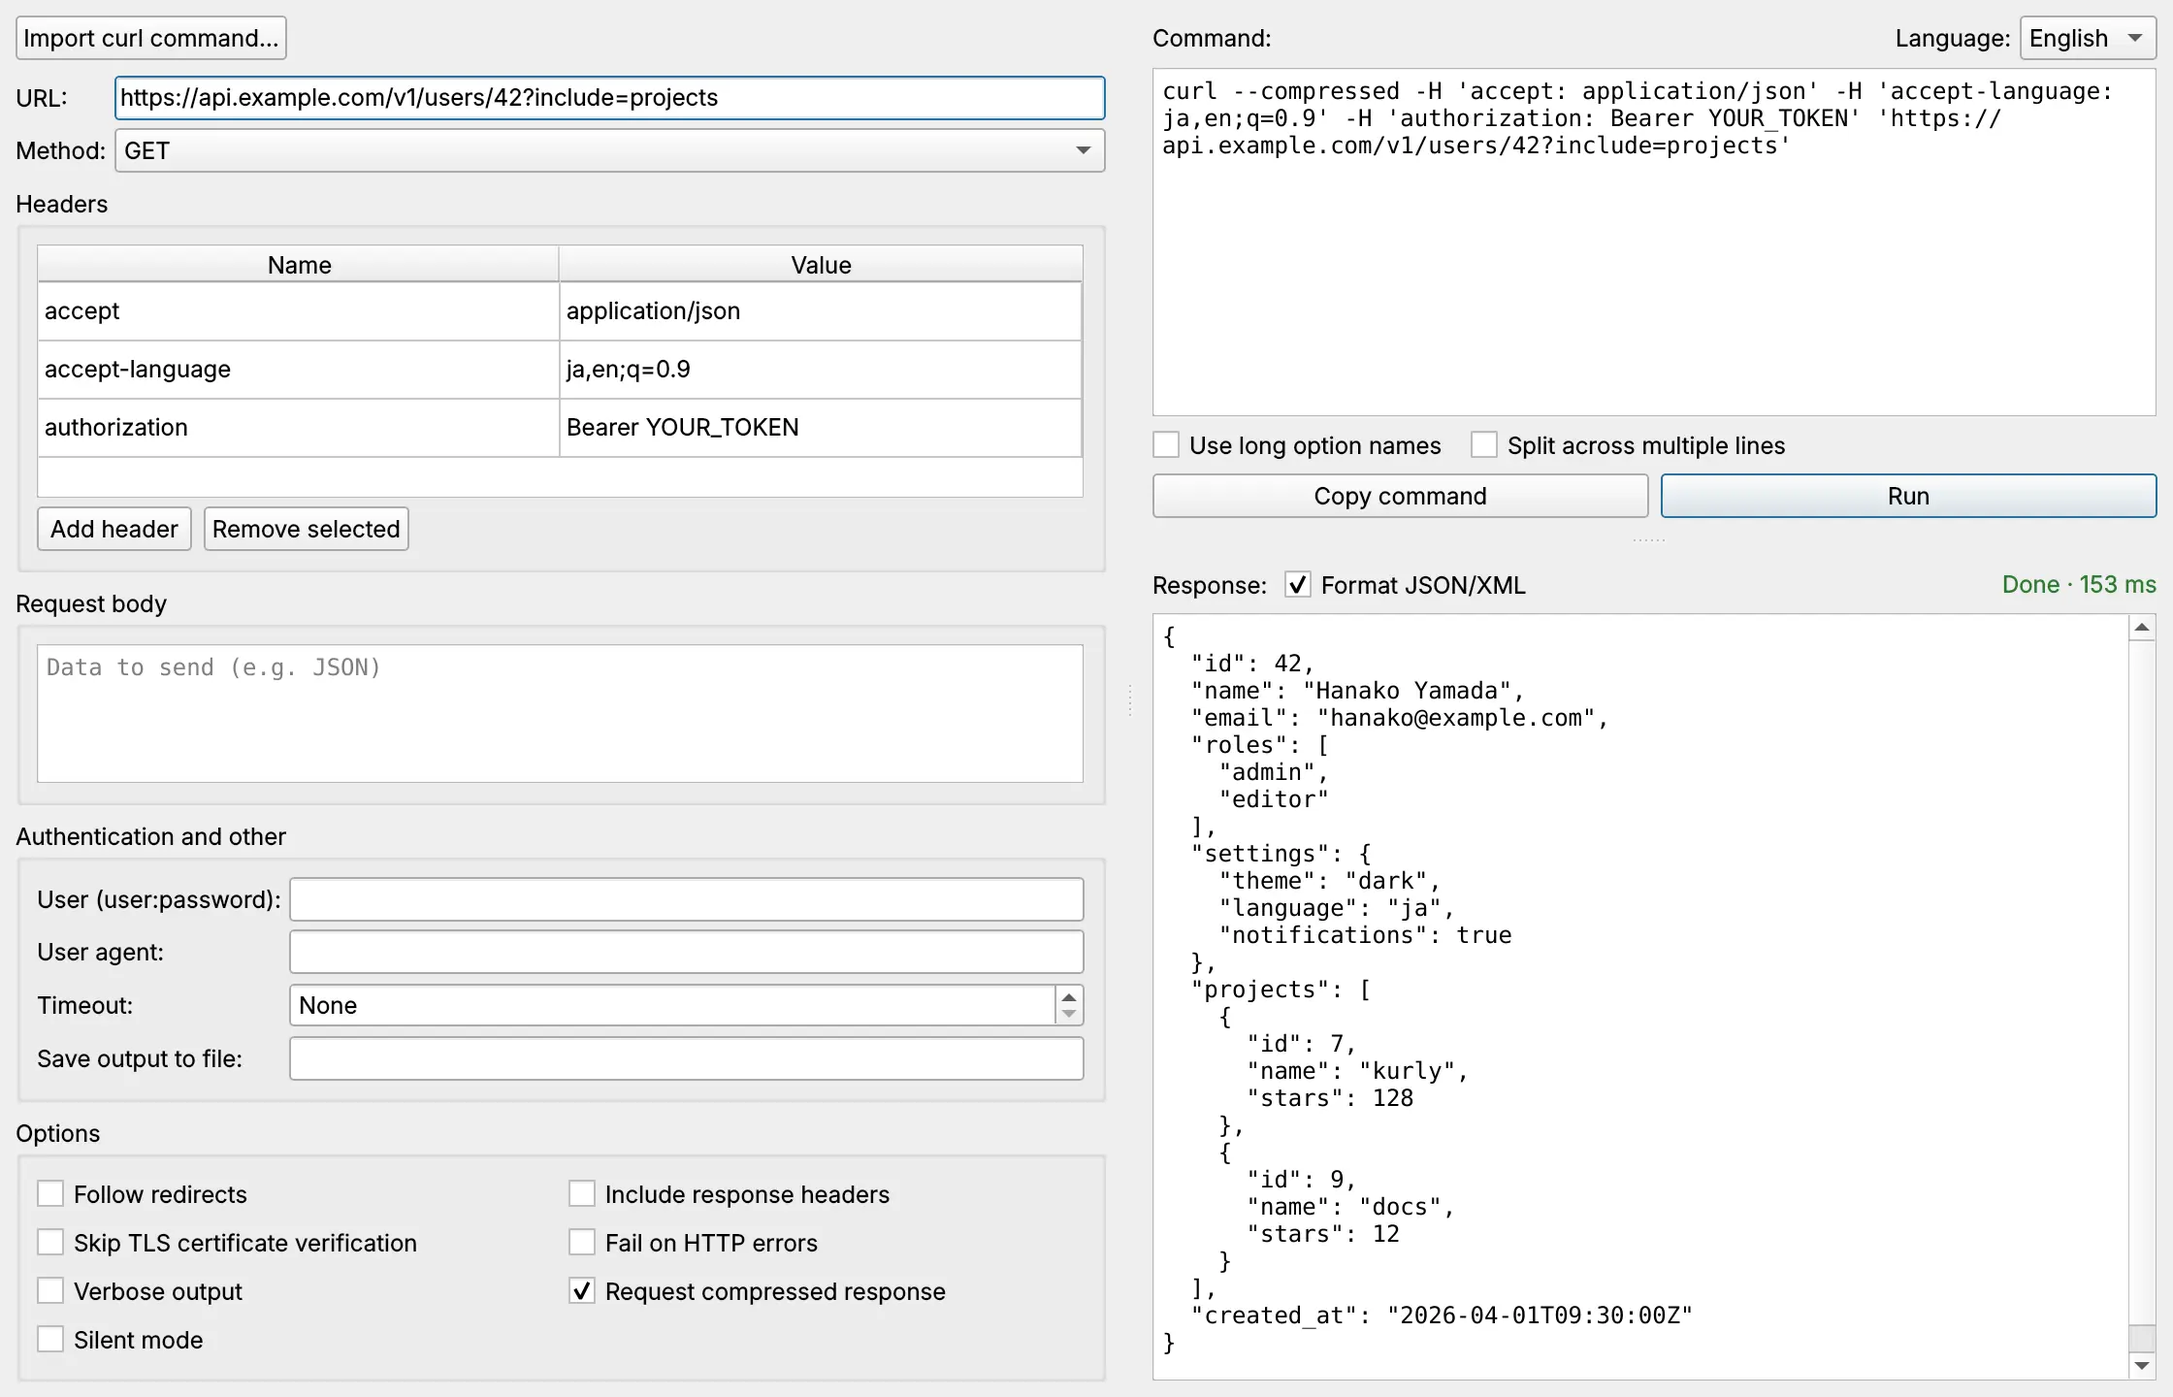
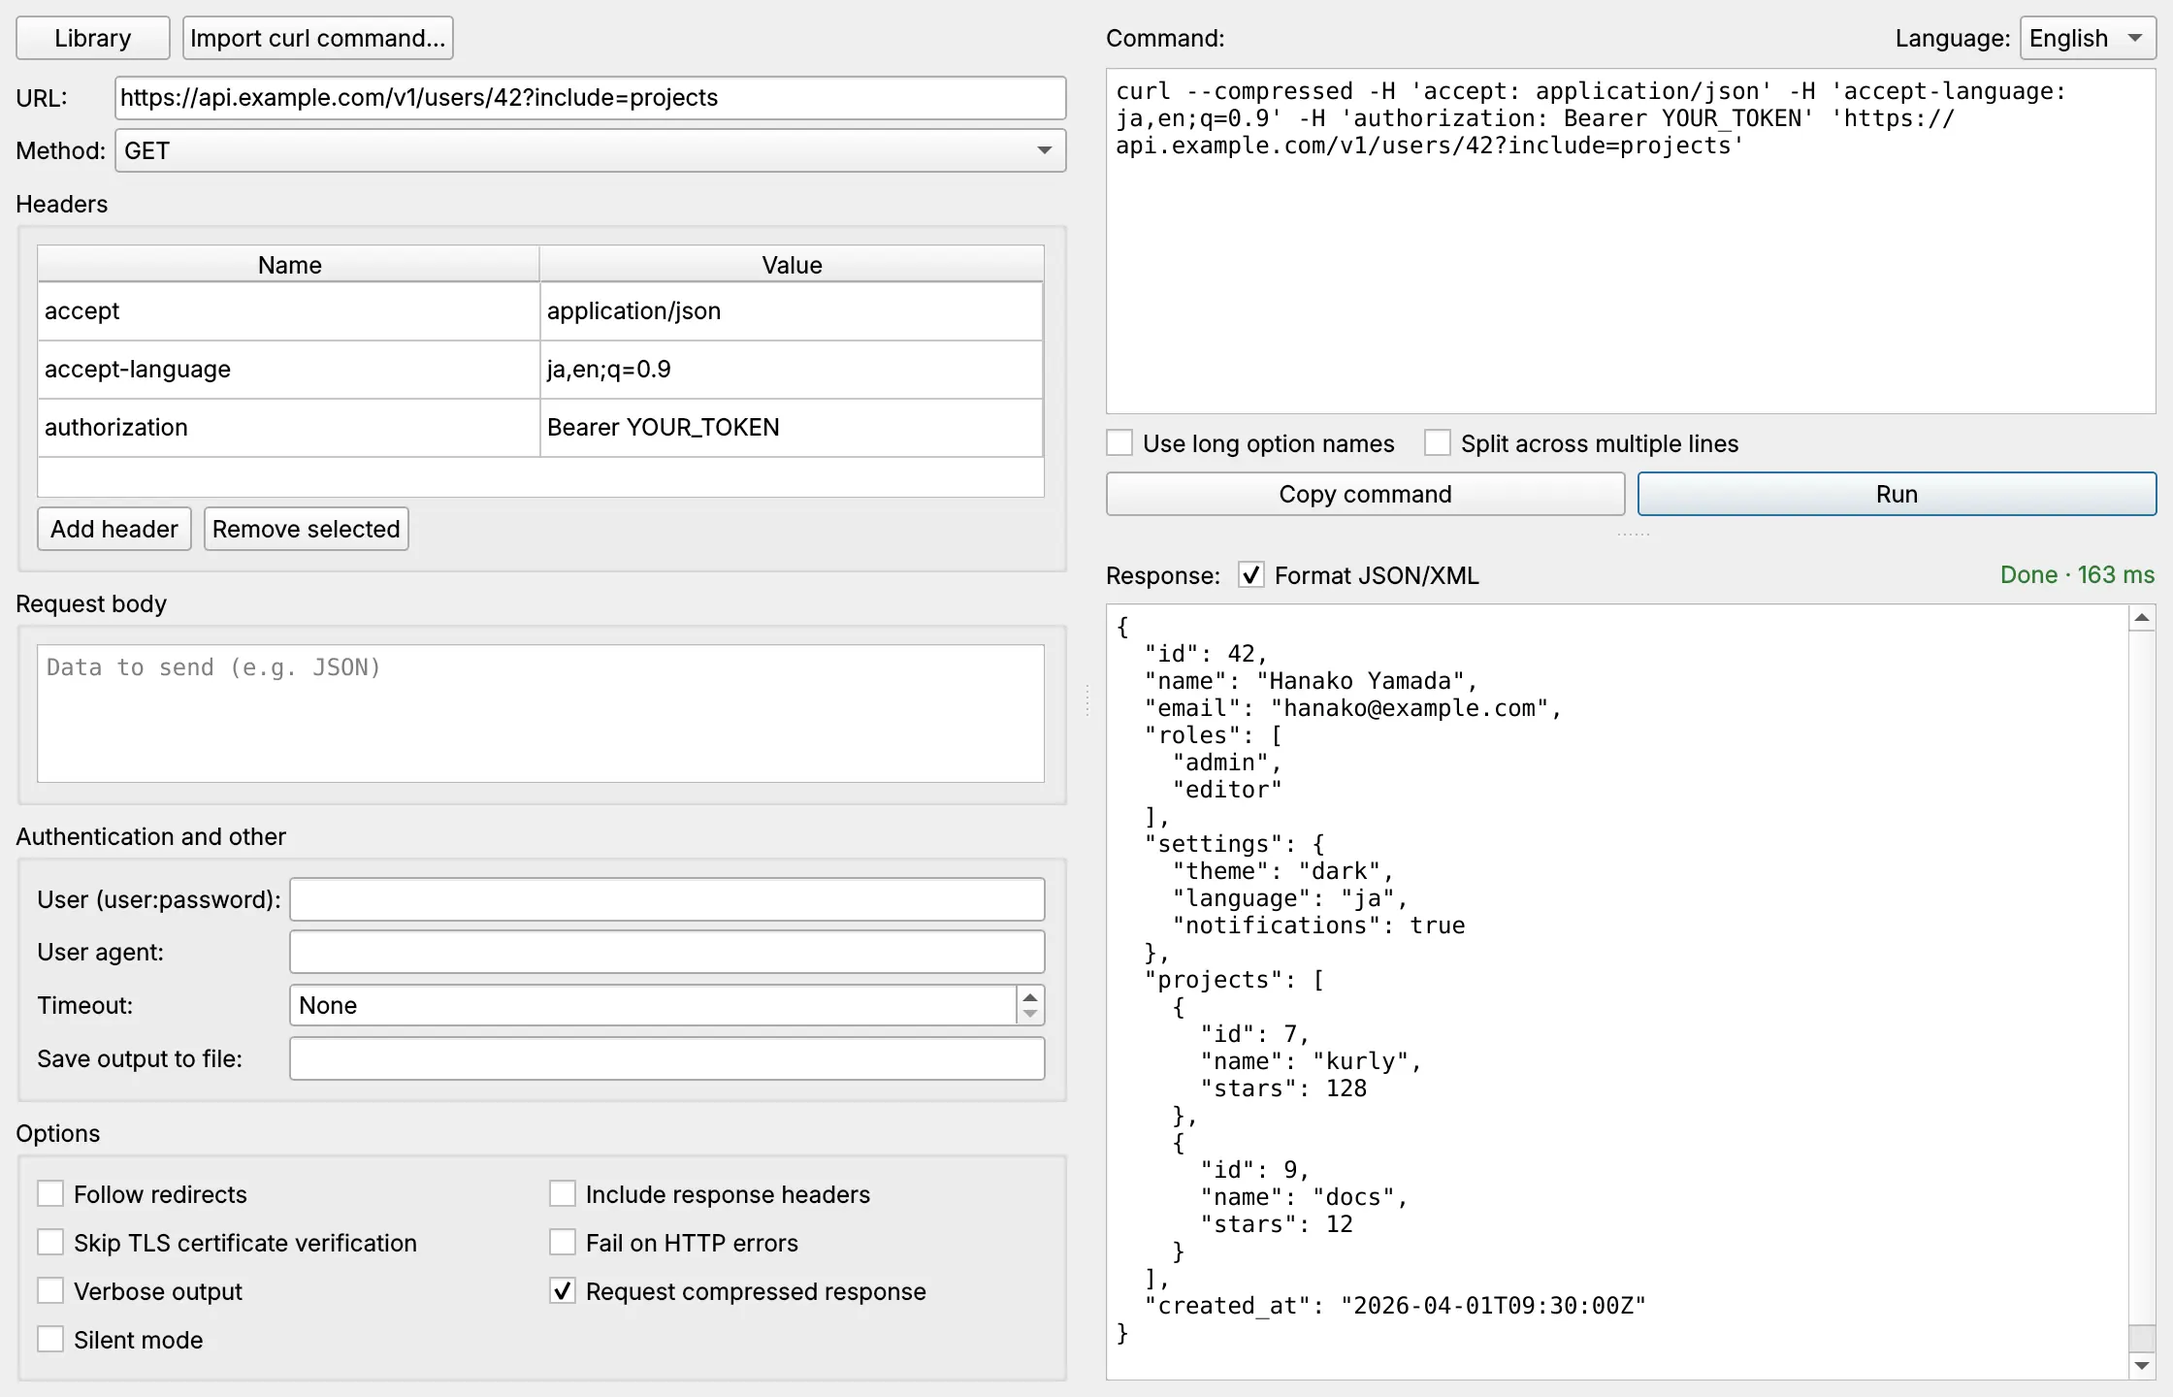
Show dark-mode screenshots on the website in dark mode
- tools/screenshots: a small tool (built with -DKURLY_BUILD_SCREENSHOT_TOOL=ON)
  that drives Kurly's real window with Qt's Fusion style in its light and
  dark colors and a stand-in curl, and saves every website screenshot: both
  themes, both languages, with and without the library. CI builds it on
  Linux so it keeps compiling.
- All screenshots retaken with it (they now show the Library button and
  padded panes), plus dark versions. The home page and the guide use
  <picture> to show the one matching the visitor's theme.
- Social preview cards regenerated from the new light screenshots.
- README: how to retake the screenshots.

Claude-Session: https://claude.ai/code/session_01LnA27pUh2nvUnP2fQDP1AB

diff --git a/site/content/docs.ja.html b/site/content/docs.ja.html
@@ -95,7 +95,10 @@
           <li><strong>「実行」</strong>（<kbd>Ctrl</kbd>/<kbd>⌘</kbd>+<kbd>Return</kbd>）を押します。コマンドの下にレスポンスが表示され、状態欄には<strong>「完了」</strong>とかかった時間が表示されます。</li>
           <li>ヘッダーを追加して（たとえば名前<code>X-Hello</code>、値<code>world</code>）もう一度実行すると、httpbinの返答に追加したヘッダーが含まれます。</li>
         </ol>
-        <img src="{{root}}assets/screenshot-{{lang}}.webp" width="2240" height="1440" alt="Kurlyのウィンドウ。左側にGETリクエストを入力したフォーム、右上にcurlコマンド、その下に整形されたJSONレスポンスが表示されています。" loading="lazy">
+        <picture>
+          <source srcset="{{root}}assets/screenshot-{{lang}}-dark.webp" media="(prefers-color-scheme: dark)">
+          <img src="{{root}}assets/screenshot-{{lang}}.webp" width="2240" height="1440" alt="Kurlyのウィンドウ。左側にGETリクエストを入力したフォーム、右上にcurlコマンド、その下に整形されたJSONレスポンスが表示されています。" loading="lazy">
+        </picture>
 
         <h2 id="using-kurly">Kurlyの使い方</h2>
         <h3 id="the-window">ウィンドウの構成</h3>
@@ -105,7 +108,10 @@
           <li><strong>フォーム</strong>（中央）：リクエストのすべての設定です。ウィンドウが小さいときはスクロールします。</li>
           <li><strong>コマンドとレスポンス</strong>（右側）：上にcurlコマンド、下に最後に実行したときのレスポンスが表示されます。</li>
         </ul>
-        <img src="{{root}}assets/library-{{lang}}.webp" width="2800" height="1500" alt="ライブラリを開いたKurlyのウィンドウ。左側に保存済みの5つのリクエスト、中央にフォーム、右側にコマンドとレスポンスが表示されています。" loading="lazy">
+        <picture>
+          <source srcset="{{root}}assets/library-{{lang}}-dark.webp" media="(prefers-color-scheme: dark)">
+          <img src="{{root}}assets/library-{{lang}}.webp" width="2800" height="1500" alt="ライブラリを開いたKurlyのウィンドウ。左側に保存済みの5つのリクエスト、中央にフォーム、右側にコマンドとレスポンスが表示されています。" loading="lazy">
+        </picture>
 
         <h3 id="building">リクエストの作成</h3>
         <ul>

diff --git a/site/content/docs.en.html b/site/content/docs.en.html
@@ -95,7 +95,10 @@
           <li>Press <strong>Run</strong> (<kbd>Ctrl</kbd>/<kbd>⌘</kbd>+<kbd>Return</kbd>). The response appears below the command, and the status line shows <strong>Done</strong> and how long it took.</li>
           <li>Add a header, for example <code>X-Hello</code> with the value <code>world</code>, and run it again: httpbin's reply now includes your header.</li>
         </ol>
-        <img src="{{root}}assets/screenshot-{{lang}}.webp" width="2240" height="1440" alt="The Kurly window with a GET request filled in on the left, the curl command at the top right and the formatted JSON response below it." loading="lazy">
+        <picture>
+          <source srcset="{{root}}assets/screenshot-{{lang}}-dark.webp" media="(prefers-color-scheme: dark)">
+          <img src="{{root}}assets/screenshot-{{lang}}.webp" width="2240" height="1440" alt="The Kurly window with a GET request filled in on the left, the curl command at the top right and the formatted JSON response below it." loading="lazy">
+        </picture>
 
         <h2 id="using-kurly">Using Kurly</h2>
         <h3 id="the-window">The window</h3>
@@ -105,7 +108,10 @@
           <li><strong>The form</strong> (middle): everything about the request. It scrolls when the window is small.</li>
           <li><strong>Command and response</strong> (right): the curl command at the top, and the response of the last run below it.</li>
         </ul>
-        <img src="{{root}}assets/library-{{lang}}.webp" width="2800" height="1500" alt="The Kurly window with the library open: a list of five saved requests on the left, the form in the middle and the command and response on the right." loading="lazy">
+        <picture>
+          <source srcset="{{root}}assets/library-{{lang}}-dark.webp" media="(prefers-color-scheme: dark)">
+          <img src="{{root}}assets/library-{{lang}}.webp" width="2800" height="1500" alt="The Kurly window with the library open: a list of five saved requests on the left, the form in the middle and the command and response on the right." loading="lazy">
+        </picture>
 
         <h3 id="building">Building a request</h3>
         <ul>

diff --git a/site/pages/index.html b/site/pages/index.html
@@ -20,8 +20,11 @@
       <div class="container">
         <figure class="app-window">
           <div class="app-window-bar" aria-hidden="true"><span></span><span></span><span></span><b>Kurly</b></div>
-          <img src="{{root}}assets/screenshot-{{lang}}.webp" width="2240" height="1440"
+          <picture>
+            <source srcset="{{root}}assets/screenshot-{{lang}}-dark.webp" media="(prefers-color-scheme: dark)">
+            <img src="{{root}}assets/screenshot-{{lang}}.webp" width="2240" height="1440"
                alt="{{screenshot_alt}}">
+          </picture>
         </figure>
       </div>
     </section>

diff --git a/site/static/style.css b/site/static/style.css
@@ -330,3 +330,6 @@ kbd {
   }
   .toc details[open] summary::after { transform: translateY(-50%) rotate(90deg); }
 }
+
+/* Screenshots come in light and dark versions (<picture>). */
+picture { display: block; }

diff --git a/tools/screenshots/main.cpp b/tools/screenshots/main.cpp
@@ -1,0 +1,207 @@
+// Takes the product screenshots used on the website, in light and dark
+// themes, English and Japanese, with and without the library:
+//
+//   QT_QPA_PLATFORM=offscreen QT_SCALE_FACTOR=2 ./kurly-screenshots <output-dir>
+//
+// It drives Kurly's real main window, with Qt's Fusion style and its standard
+// light or dark colors (what Kurly looks like on macOS in each mode), and a
+// stand-in curl that returns a sample JSON response, so the screenshots show
+// "api.example.com" instead of a real server. Writes PNGs named
+// <screen>-<lang>-<theme>.png (screen: "main" or "library").
+//
+// Build with -DKURLY_BUILD_SCREENSHOT_TOOL=ON. Unix only (the stand-in curl is
+// a shell script).
+
+#include "mainwindow.h"
+#include "requeststore.h"
+
+#include <QApplication>
+#include <QDir>
+#include <QElapsedTimer>
+#include <QFile>
+#include <QJsonArray>
+#include <QJsonDocument>
+#include <QJsonObject>
+#include <QLabel>
+#include <QPushButton>
+#include <QSettings>
+#include <QStandardPaths>
+#include <QStyle>
+#include <QStyleFactory>
+#include <QTemporaryDir>
+#include <QThread>
+
+#include <cstdio>
+
+namespace {
+
+// Qt's Fusion palette for dark appearance (as Qt 6.5+ uses on macOS).
+QPalette fusionDarkPalette()
+{
+    const QColor windowText(240, 240, 240);
+    const QColor background(50, 50, 50);
+    const QColor light = background.lighter(150);
+    const QColor mid = background.darker(130);
+    const QColor dark = background.darker(150);
+    const QColor base = background.darker(140);
+    const QColor disabledText(130, 130, 130);
+
+    QPalette p(windowText, background, light, dark, mid, windowText, base);
+    p.setBrush(QPalette::Midlight, mid.lighter(110));
+    p.setBrush(QPalette::Button, background);
+    p.setBrush(QPalette::Shadow, dark.darker(135));
+    p.setBrush(QPalette::Highlight, QColor(48, 140, 198));
+    p.setBrush(QPalette::HighlightedText, windowText);
+    p.setBrush(QPalette::Link, QColor(48, 140, 198));
+    p.setBrush(QPalette::AlternateBase, background);
+    QColor placeholder = windowText;
+    placeholder.setAlpha(128);
+    p.setBrush(QPalette::PlaceholderText, placeholder);
+    for (auto role : {QPalette::WindowText, QPalette::Text, QPalette::ButtonText})
+        p.setBrush(QPalette::Disabled, role, disabledText);
+    p.setBrush(QPalette::Disabled, QPalette::Base, background);
+    return p;
+}
+
+QJsonObject request(const QString &id, const QString &name, const CurlOptions &o)
+{
+    QJsonObject json = RequestStore::toJson(o);
+    json.insert("id", id);
+    json.insert("name", name);
+    return json;
+}
+
+CurlOptions userRequest()
+{
+    CurlOptions o;
+    o.url = "https://api.example.com/v1/users/42?include=projects";
+    o.headers = {{"accept", "application/json"},
+                 {"accept-language", "ja,en;q=0.9"},
+                 {"authorization", "Bearer YOUR_TOKEN"}};
+    o.compressed = true;
+    return o;
+}
+
+// A library file: just the user request, or five requests.
+QString writeLibrary(const QString &dir, bool full)
+{
+    QJsonArray requests{request("r1", "", userRequest())};
+    if (full) {
+        CurlOptions create;
+        create.method = "POST";
+        create.url = "https://api.example.com/v1/users";
+        create.headers = {{"content-type", "application/json"}};
+        create.body = "{\"name\": \"Hanako Yamada\"}";
+        CurlOptions logout;
+        logout.method = "DELETE";
+        logout.url = "https://api.example.com/v1/sessions/current";
+        logout.headers = {{"authorization", "Bearer YOUR_TOKEN"}};
+        CurlOptions health;
+        health.url = "https://status.example.com/health";
+        CurlOptions star;
+        star.method = "PATCH";
+        star.url = "https://api.example.com/v1/projects/7";
+        star.headers = {{"content-type", "application/json"}};
+        star.body = "{\"stars\": 129}";
+        requests.append(request("r2", "Create user", create));
+        requests.append(request("r3", "", logout));
+        requests.append(request("r4", "Health check", health));
+        requests.append(request("r5", "", star));
+    }
+    const QString path = dir + (full ? "/library-full.json" : "/library-one.json");
+    QFile f(path);
+    if (!f.open(QIODevice::WriteOnly))
+        qFatal("can't write %s", qPrintable(path));
+    f.write(QJsonDocument(QJsonObject{{"version", 1}, {"current", "r1"}, {"requests", requests}})
+                .toJson());
+    return path;
+}
+
+QString writeFakeCurl(const QString &dir)
+{
+    const QString path = dir + "/curl";
+    QFile f(path);
+    if (!f.open(QIODevice::WriteOnly))
+        qFatal("can't write %s", qPrintable(path));
+    f.write("#!/bin/sh\n"
+            "# Stand-in for curl: a sample API response.\n"
+            "sleep 0.15\n"
+            "printf '%s' '{\"id\":42,\"name\":\"Hanako Yamada\",\"email\":\"hanako@example.com\","
+            "\"roles\":[\"admin\",\"editor\"],\"settings\":{\"theme\":\"dark\",\"language\":\"ja\","
+            "\"notifications\":true},\"projects\":[{\"id\":7,\"name\":\"kurly\",\"stars\":128},"
+            "{\"id\":9,\"name\":\"docs\",\"stars\":12}],\"created_at\":\"2026-04-01T09:30:00Z\"}'\n");
+    f.close();
+    f.setPermissions(QFile::ReadOwner | QFile::WriteOwner | QFile::ExeOwner);
+    return path;
+}
+
+void waitFor(const std::function<bool()> &done, int timeoutMs = 10000)
+{
+    QElapsedTimer timer;
+    timer.start();
+    while (!done() && timer.elapsed() < timeoutMs) {
+        QCoreApplication::processEvents(QEventLoop::AllEvents, 20);
+        QThread::msleep(10);
+    }
+    if (!done())
+        qFatal("timed out");
+}
+
+} // namespace
+
+int main(int argc, char *argv[])
+{
+    QApplication app(argc, argv);
+    if (argc < 2) {
+        std::fprintf(stderr, "usage: %s <output-dir>\n", argv[0]);
+        return 2;
+    }
+    const QString out = QString::fromLocal8Bit(argv[1]);
+    QDir().mkpath(out);
+
+    // Keep away from the real settings and library.
+    QCoreApplication::setOrganizationName("Kurly Screenshots");
+    QCoreApplication::setApplicationName("kurly-screenshots");
+    QStandardPaths::setTestModeEnabled(true);
+    QApplication::setStyle(QStyleFactory::create("Fusion"));
+    const QPalette lightPalette = QApplication::style()->standardPalette();
+    const QPalette darkPalette = fusionDarkPalette();
+
+    QTemporaryDir tmp;
+    const QString fakeCurl = writeFakeCurl(tmp.path());
+
+    struct Screen { const char *name; bool library; QSize size; };
+    const Screen screens[] = {{"main", false, {1120, 720}}, {"library", true, {1400, 750}}};
+
+    for (const char *lang : {"en", "ja"}) {
+        for (const char *theme : {"light", "dark"}) {
+            QApplication::setPalette(QString(theme) == "dark" ? darkPalette : lightPalette);
+            for (const Screen &screen : screens) {
+                QSettings settings;
+                settings.clear();
+                settings.setValue("language", lang);
+                settings.setValue("prettyPrint", true);
+                settings.setValue("libraryVisible", screen.library);
+                settings.sync();
+
+                MainWindow w(nullptr, writeLibrary(tmp.path(), screen.library));
+                w.setCurlProgram(fakeCurl);
+                w.resize(screen.size);
+                w.show();
+                QCoreApplication::processEvents();
+
+                auto *run = w.findChild<QPushButton *>("run");
+                auto *status = w.findChild<QLabel *>("status");
+                run->click();
+                waitFor([status] { return !status->text().isEmpty() && !status->text().contains("…"); });
+                QCoreApplication::processEvents();
+
+                const QString file = QStringLiteral("%1/%2-%3-%4.png").arg(out, screen.name, lang, theme);
+                if (!w.grab().save(file))
+                    qFatal("can't save %s", qPrintable(file));
+                std::printf("%s\n", qPrintable(file));
+            }
+        }
+    }
+    return 0;
+}

diff --git a/README.md b/README.md
@@ -222,8 +222,26 @@ To build and preview it locally:
 python3 site/build.py && python3 -m http.server -d site/_site 8000
 ```
 
-Then open <http://localhost:8000>. After changing the headline or the
-screenshots, regenerate the social preview images with
+Then open <http://localhost:8000>.
+
+**Screenshots.** Every screenshot comes in a light and a dark version, and
+the site shows the one matching the visitor's theme. After changing the
+interface, retake them all (both themes, both languages, with and without the
+library) with the screenshot tool, which drives Kurly's real window with a
+stand-in curl (Linux/macOS):
+
+```bash
+cmake -S . -B build -DKURLY_BUILD_SCREENSHOT_TOOL=ON && cmake --build build --target kurly-screenshots
+```
+
+```bash
+QT_QPA_PLATFORM=offscreen QT_SCALE_FACTOR=2 ./build/tools/screenshots/kurly-screenshots shots
+```
+
+Convert them into `site/static/assets/` as `screenshot-<lang>[-dark].webp`
+(from `main-*`) and `library-<lang>[-dark].webp` (from `library-*`), for
+example with `convert shots/main-en-dark.png -quality 88 site/static/assets/screenshot-en-dark.webp`.
+Then regenerate the social preview images with
 `node site/tools/make-og-images.js` (needs Playwright).
 
 ## Layout
@@ -240,6 +258,7 @@ screenshots, regenerate the social preview images with
 - `site/` – the website (see above)
 - `icons/` – app icon sources, generated platform icons, and the Linux `.desktop` file
 - `tests/` – unit and widget tests (see above)
+- `tools/screenshots/` – the tool that takes the website's screenshots
 
 ## License
 
